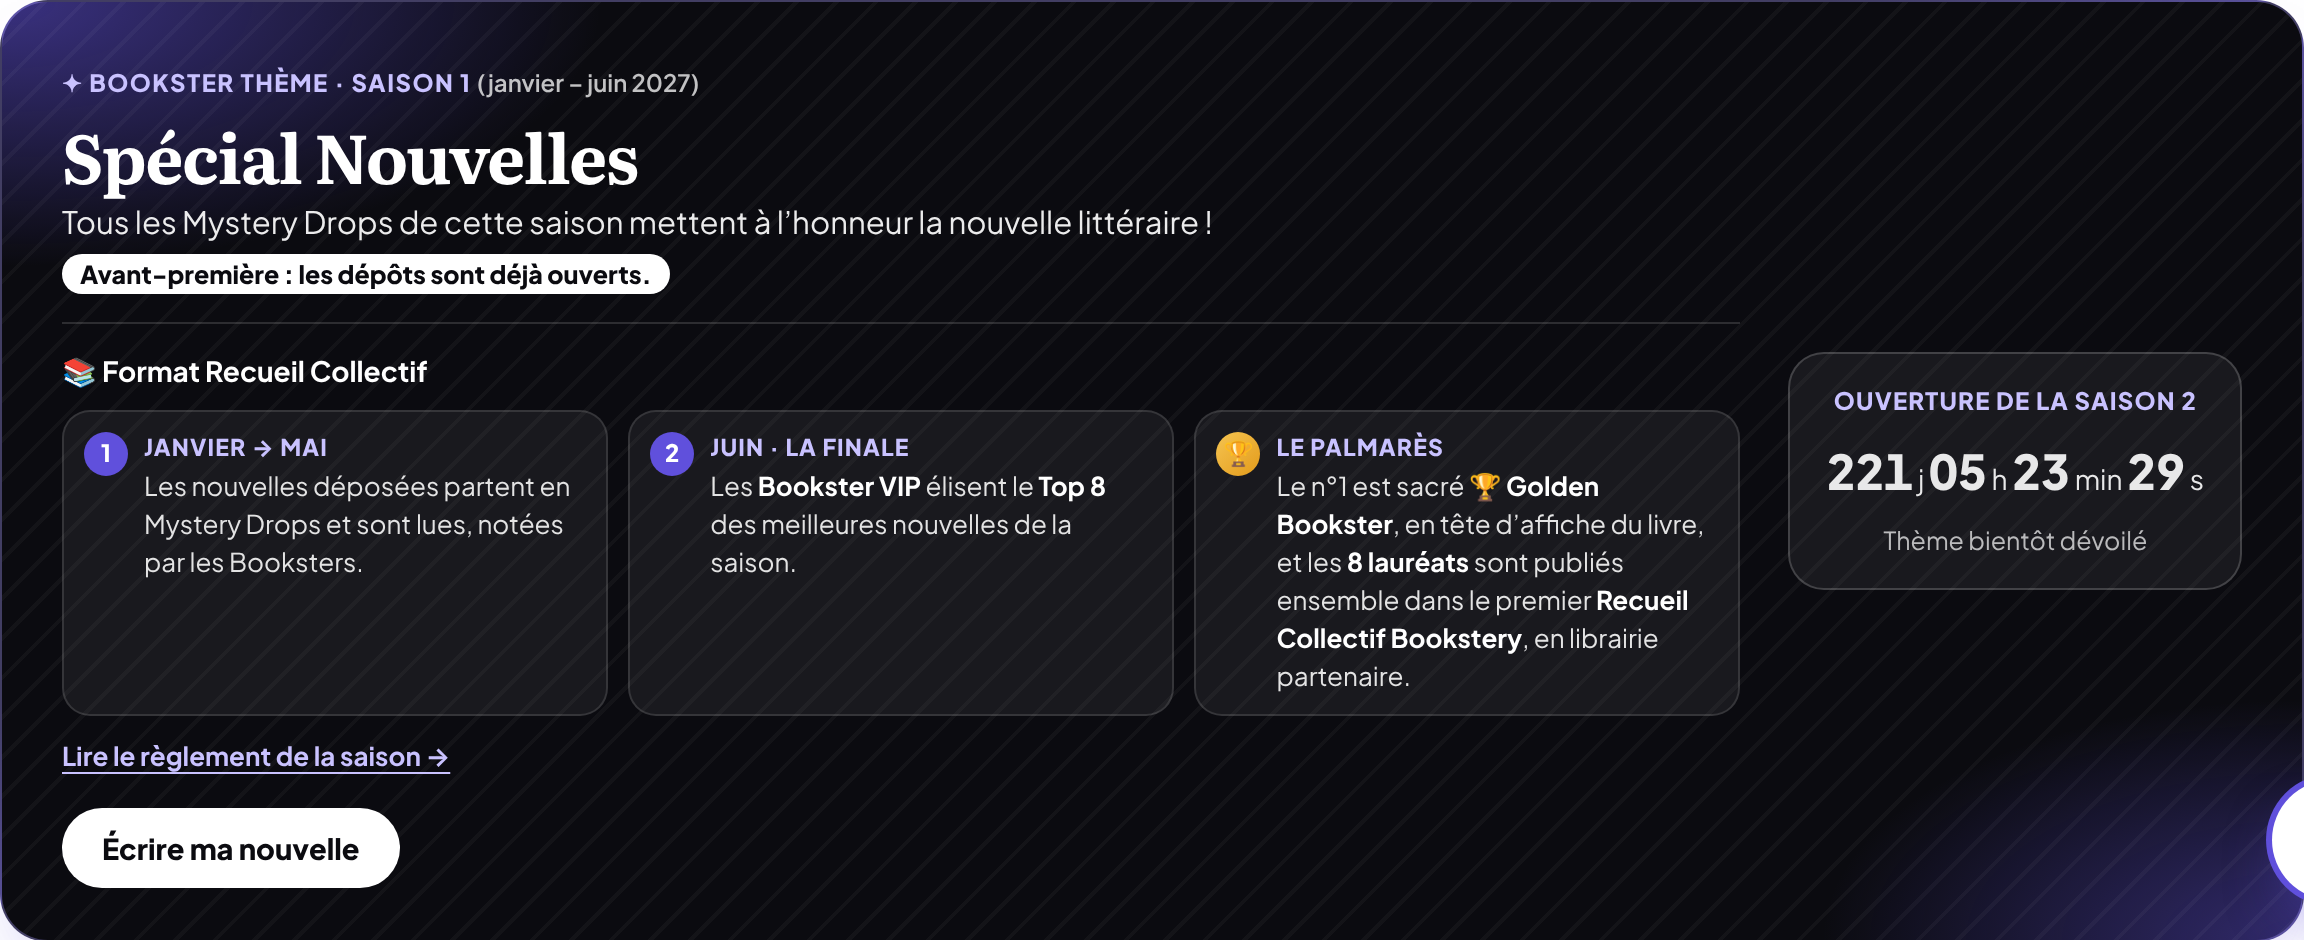
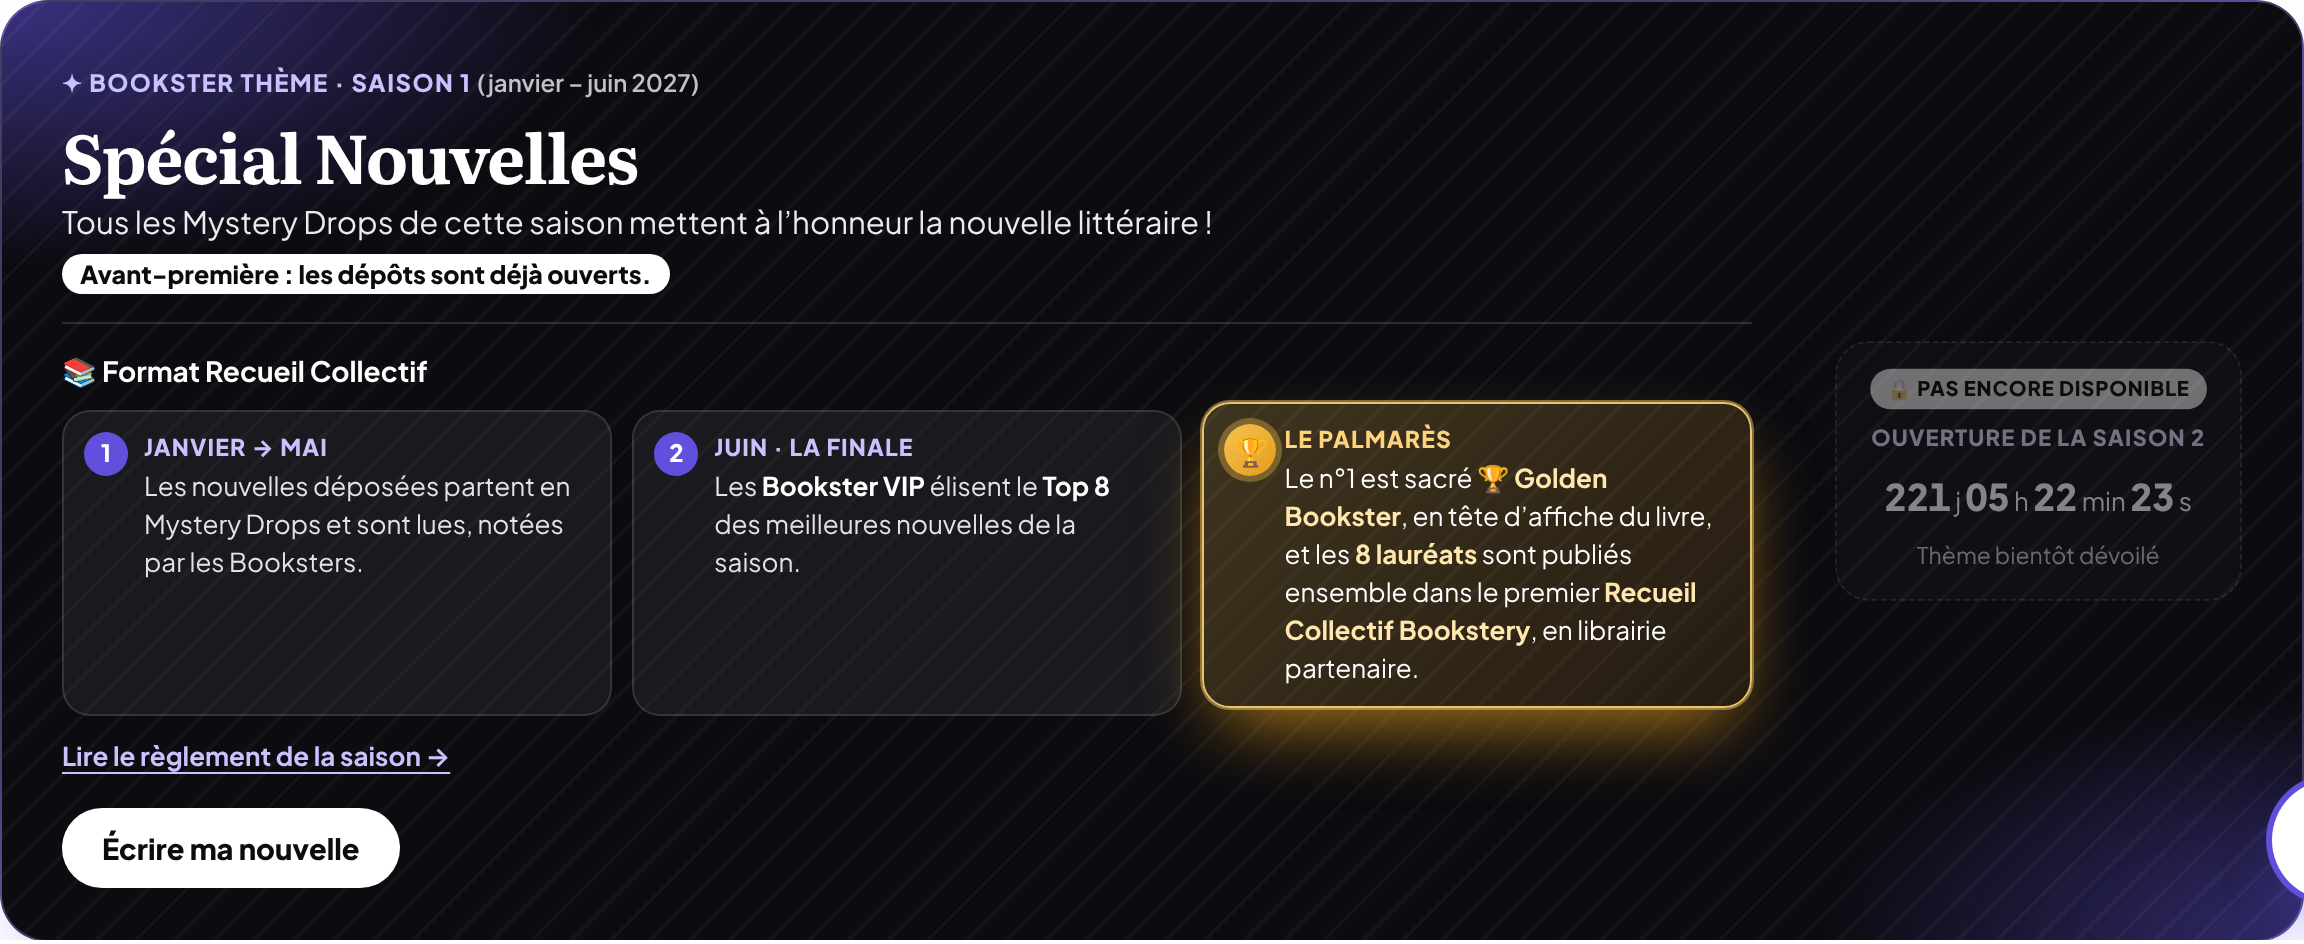
Bannière Saison 1 : ouverture Saison 2 en retrait, palmarès mis en avant
Claude-Session: https://claude.ai/code/session_01EPa3evC84KLMU14gb8iTX3

Changed region(s): [[0.25, 0.3686, 0.9688, 0.8294]]

diff --git a/index.html b/index.html
@@ -1173,6 +1173,17 @@ footer .legal{grid-column:1/-1;border-top:1px solid var(--line);padding-top:18px
 .sz-reg:hover{color:#fff}
 .saison.auteur .sz-steps{grid-template-columns:1fr}
 @media(max-width:760px){.sz-steps{grid-template-columns:1fr}}
+/* Saison 2 en retrait, palmarès mis en avant */
+.sz-r{opacity:.55;filter:saturate(.4);background:rgba(255,255,255,.03)!important;border-style:dashed!important;transform:scale(.92);transform-origin:right center;transition:opacity .2s}
+.sz-r:hover{opacity:.8}
+.sz-r .sz-cd b{font-size:20px}
+.sz-soon{font-size:11px;font-weight:800;letter-spacing:.04em;text-transform:uppercase;color:#0B0B10;background:rgba(255,255,255,.75);border-radius:999px;padding:2px 9px}
+.sz-steps li:last-child{background:linear-gradient(135deg,rgba(245,196,81,.22),rgba(227,155,27,.12));border:1.5px solid #E9C46A;color:#fff;box-shadow:0 0 0 1px rgba(233,196,106,.25),0 14px 30px -12px rgba(227,155,27,.55);transform:translateY(-4px);animation:pmGlow 2.8s ease-in-out infinite}
+.sz-steps li:last-child span{color:#FFD37A}
+.sz-steps li:last-child b{color:#FFE7AE}
+.sz-steps li:last-child::before{width:26px;height:26px;font-size:14px;box-shadow:0 0 0 3px rgba(245,196,81,.35)}
+@keyframes pmGlow{0%,100%{box-shadow:0 0 0 1px rgba(233,196,106,.25),0 14px 30px -12px rgba(227,155,27,.5)}50%{box-shadow:0 0 0 1px rgba(233,196,106,.5),0 16px 38px -10px rgba(227,155,27,.8)}}
+@media(max-width:760px){.sz-r{transform:none}}
 @media(prefers-reduced-motion:reduce){*{transition-duration:.01ms!important;animation:none!important;scroll-behavior:auto!important}}
 </style>
 </head>
@@ -1236,7 +1247,7 @@ footer .legal{grid-column:1/-1;border-top:1px solid var(--line);padding-top:18px
   </div>
 
   <div class="wrap">
-    <div class="saison-slot" data-saison="accueil"><section class="saison accueil" aria-label="Bookster Thème Saison 1"><div class="sz-l"><span class="sz-k">✦ Bookster Thème · Saison 1 <i>(janvier – juin 2027)</i></span><h2 class="sz-t">Spécial Nouvelles</h2><p class="sz-p">Tous les Mystery Drops de cette saison mettent à l’honneur la nouvelle littéraire&nbsp;!</p><div class="sz-rc"><b class="sz-rc-t">📚 Format Recueil Collectif</b><ol class="sz-steps"><li><span>Janvier → mai</span>Les nouvelles déposées partent en Mystery Drops et sont lues, notées par les Booksters.</li><li><span>Juin · la finale</span>Les <b>Bookster VIP</b> élisent le <b>Top 8</b> des meilleures nouvelles de la saison.</li><li><span>Le palmarès</span>Le n°1 est sacré <b>🏆 Golden Bookster</b>, en tête d’affiche du livre, et les <b>8 lauréats</b> sont publiés ensemble dans le premier <b>Recueil Collectif Bookstery</b>, en librairie partenaire.</li></ol><a class="sz-reg" href="legal.html#c-saison1">Lire le règlement de la saison →</a></div><button class="sz-btn" type="button" data-auteur>Écrire ma nouvelle</button></div><div class="sz-r"><span class="sz-cd-k">Ouverture de la Saison 2</span><span class="sz-cd">1er juillet 2027</span><span class="sz-cd-n">Thème bientôt dévoilé</span></div></section></div>
+    <div class="saison-slot" data-saison="accueil"><section class="saison accueil" aria-label="Bookster Thème Saison 1"><div class="sz-l"><span class="sz-k">✦ Bookster Thème · Saison 1 <i>(janvier – juin 2027)</i></span><h2 class="sz-t">Spécial Nouvelles</h2><p class="sz-p">Tous les Mystery Drops de cette saison mettent à l’honneur la nouvelle littéraire&nbsp;!</p><div class="sz-rc"><b class="sz-rc-t">📚 Format Recueil Collectif</b><ol class="sz-steps"><li><span>Janvier → mai</span>Les nouvelles déposées partent en Mystery Drops et sont lues, notées par les Booksters.</li><li><span>Juin · la finale</span>Les <b>Bookster VIP</b> élisent le <b>Top 8</b> des meilleures nouvelles de la saison.</li><li><span>Le palmarès</span>Le n°1 est sacré <b>🏆 Golden Bookster</b>, en tête d’affiche du livre, et les <b>8 lauréats</b> sont publiés ensemble dans le premier <b>Recueil Collectif Bookstery</b>, en librairie partenaire.</li></ol><a class="sz-reg" href="legal.html#c-saison1">Lire le règlement de la saison →</a></div><button class="sz-btn" type="button" data-auteur>Écrire ma nouvelle</button></div><div class="sz-r"><span class="sz-soon">🔒 Pas encore disponible</span><span class="sz-cd-k">Ouverture de la Saison 2</span><span class="sz-cd">1er juillet 2027</span><span class="sz-cd-n">Thème bientôt dévoilé</span></div></section></div>
     <div class="themes-slot" data-themes="accueil"><section class="bt accueil" aria-label="Boîte à Thèmes Saison 2"><div class="bt-l"><span class="bt-k">💡 Boîte à Thèmes · Saison 2</span><h3 class="bt-t">Quel thème pour la Saison 2&nbsp;?</h3><p class="bt-p">Propose le prochain Bookster Thème&nbsp;: la communauté décide, et Bookstery l’écoute.</p><div class="bt-grid"><span class="bt-g">Aventure</span><span class="bt-g">BD</span><span class="bt-g">Classiques</span><span class="bt-g">Fantasy</span><span class="bt-g">Feel-good</span><span class="bt-g">Horreur</span><span class="bt-g">Manga</span><span class="bt-g">Nouvelles</span><span class="bt-g">Poésie</span><span class="bt-g">Polar</span><span class="bt-g">Romance</span><span class="bt-g">Science-fiction</span><span class="bt-g">Thriller</span><span class="bt-g">Young Adult</span></div></div><div class="bt-r"><div class="bt-live"><span class="bt-dot"></span>Tendances en direct</div><p class="bt-empty">Chargement des tendances…</p></div></section></div>
     <ul class="vprops" aria-label="Pourquoi Bookstery">
       <li><span class="vp-ico" aria-hidden="true"><svg width="22" height="22" viewBox="0 0 24 24" fill="none" stroke="currentColor" stroke-width="2" stroke-linecap="round" stroke-linejoin="round"><path d="M4 19.5V5a2 2 0 0 1 2-2h13v16H6a2 2 0 0 0-2 2.5Z"/><path d="M8 7h7M8 11h5"/></svg></span><div><b>Des livres d’occasion près de chez toi</b><span>Vendus par des Booksters, avec photos réelles de chaque exemplaire.</span></div></li>
@@ -3550,7 +3561,7 @@ function saisonBanner(ctx){var c=saisonCourante();if(!c)return"";var nx=saisonSu
     (ctx==="auteur"?'<p class="sz-lock">🔒 Dépôts de la saison : <b>format '+esc(c.formatNom||"libre")+'</b> uniquement.</p>':"")+
     (c.recueil?'<div class="sz-rc"><b class="sz-rc-t">📚 Format Recueil Collectif</b><ol class="sz-steps"><li><span>Janvier → mai</span>Les nouvelles déposées partent en Mystery Drops et sont lues, notées par les Booksters.</li><li><span>Juin · la finale</span>Les <b>Bookster VIP</b> élisent le <b>Top 8</b> des meilleures nouvelles de la saison.</li><li><span>Le palmarès</span>Le n°1 est sacré <b>🏆 Golden Bookster</b>, en tête d’affiche du livre, et les <b>8 lauréats</b> sont publiés ensemble dans le premier <b>Recueil Collectif Bookstery</b>, en librairie partenaire.</li></ol><a class="sz-reg" href="legal.html#c-saison1">Lire le règlement de la saison →</a></div>':"")+
     (ctx==="accueil"?'<button class="sz-btn" type="button" data-auteur>Écrire ma nouvelle</button>':"")+'</div>'+
-    (nx?'<div class="sz-r"><span class="sz-cd-k">Ouverture de la '+esc(nx.nom)+'</span><span class="sz-cd" data-cd="'+esc(nx.debut)+'">'+rebours(Date.parse(nx.debut)-Date.now())+'</span><span class="sz-cd-n">'+esc(nx.theme)+'</span></div>':"")+
+    (nx?'<div class="sz-r"><span class="sz-soon">🔒 Pas encore disponible</span><span class="sz-cd-k">Ouverture de la '+esc(nx.nom)+'</span><span class="sz-cd" data-cd="'+esc(nx.debut)+'">'+rebours(Date.parse(nx.debut)-Date.now())+'</span><span class="sz-cd-n">'+esc(nx.theme)+'</span></div>':"")+
   '</section>'}
 function renderSaisons(){document.querySelectorAll(".saison-slot").forEach(function(el){el.innerHTML=saisonBanner(el.getAttribute("data-saison"))});
   var c=saisonCourante(),row=$("exFormatRow");
